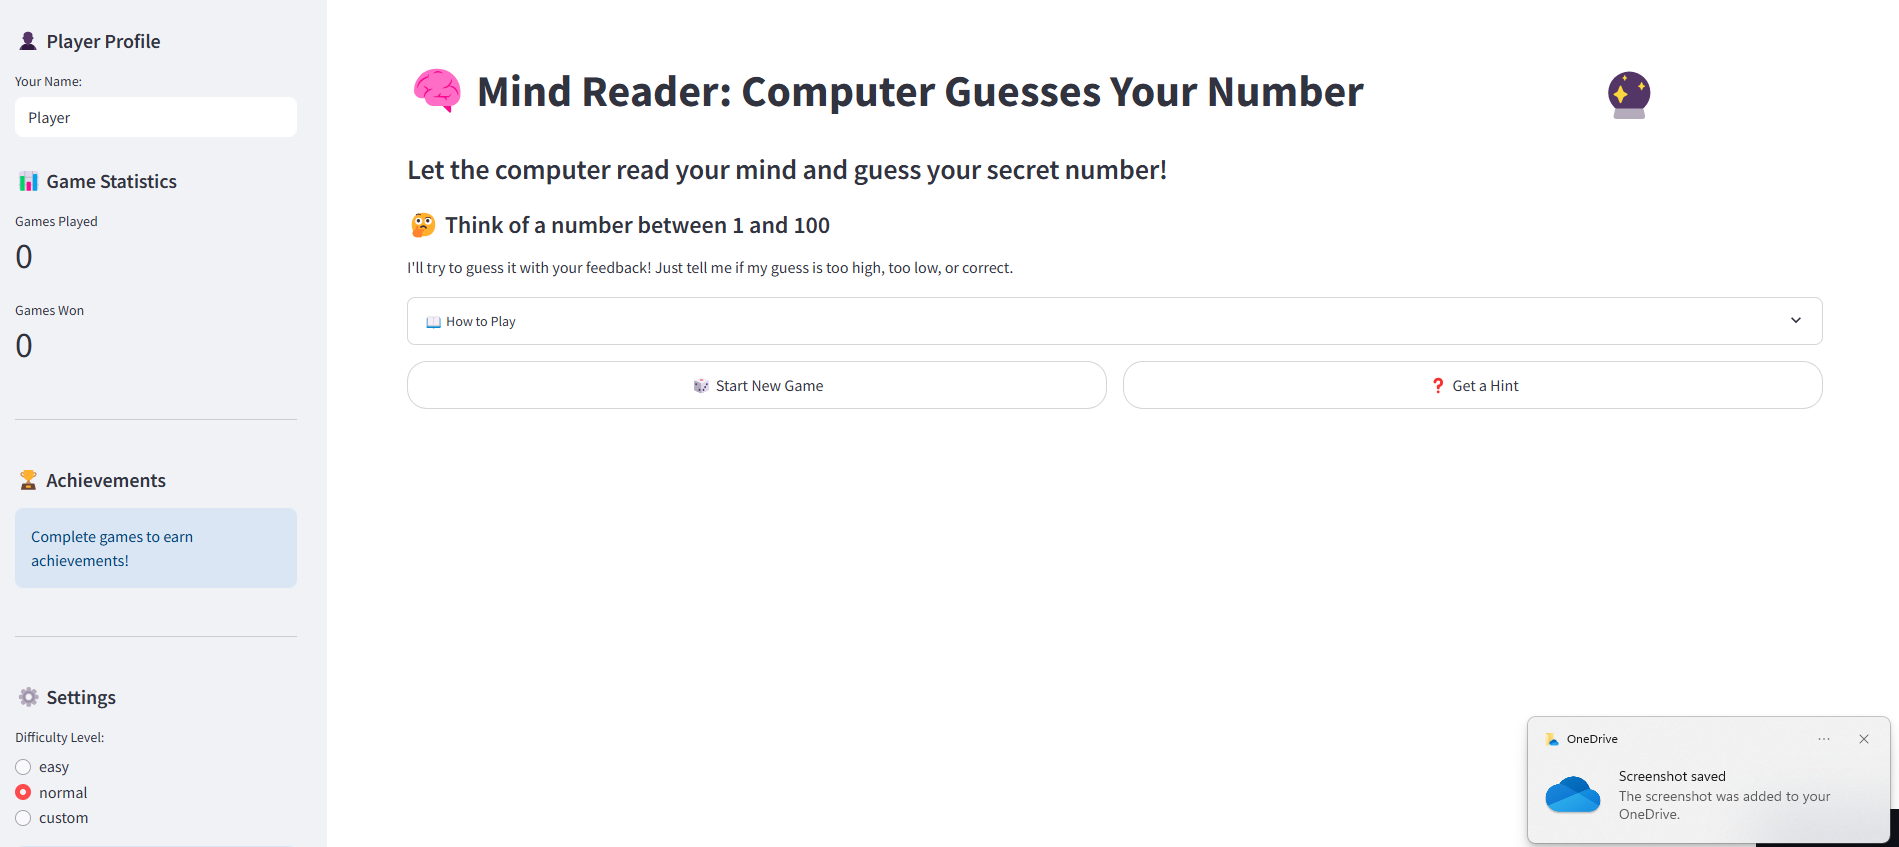
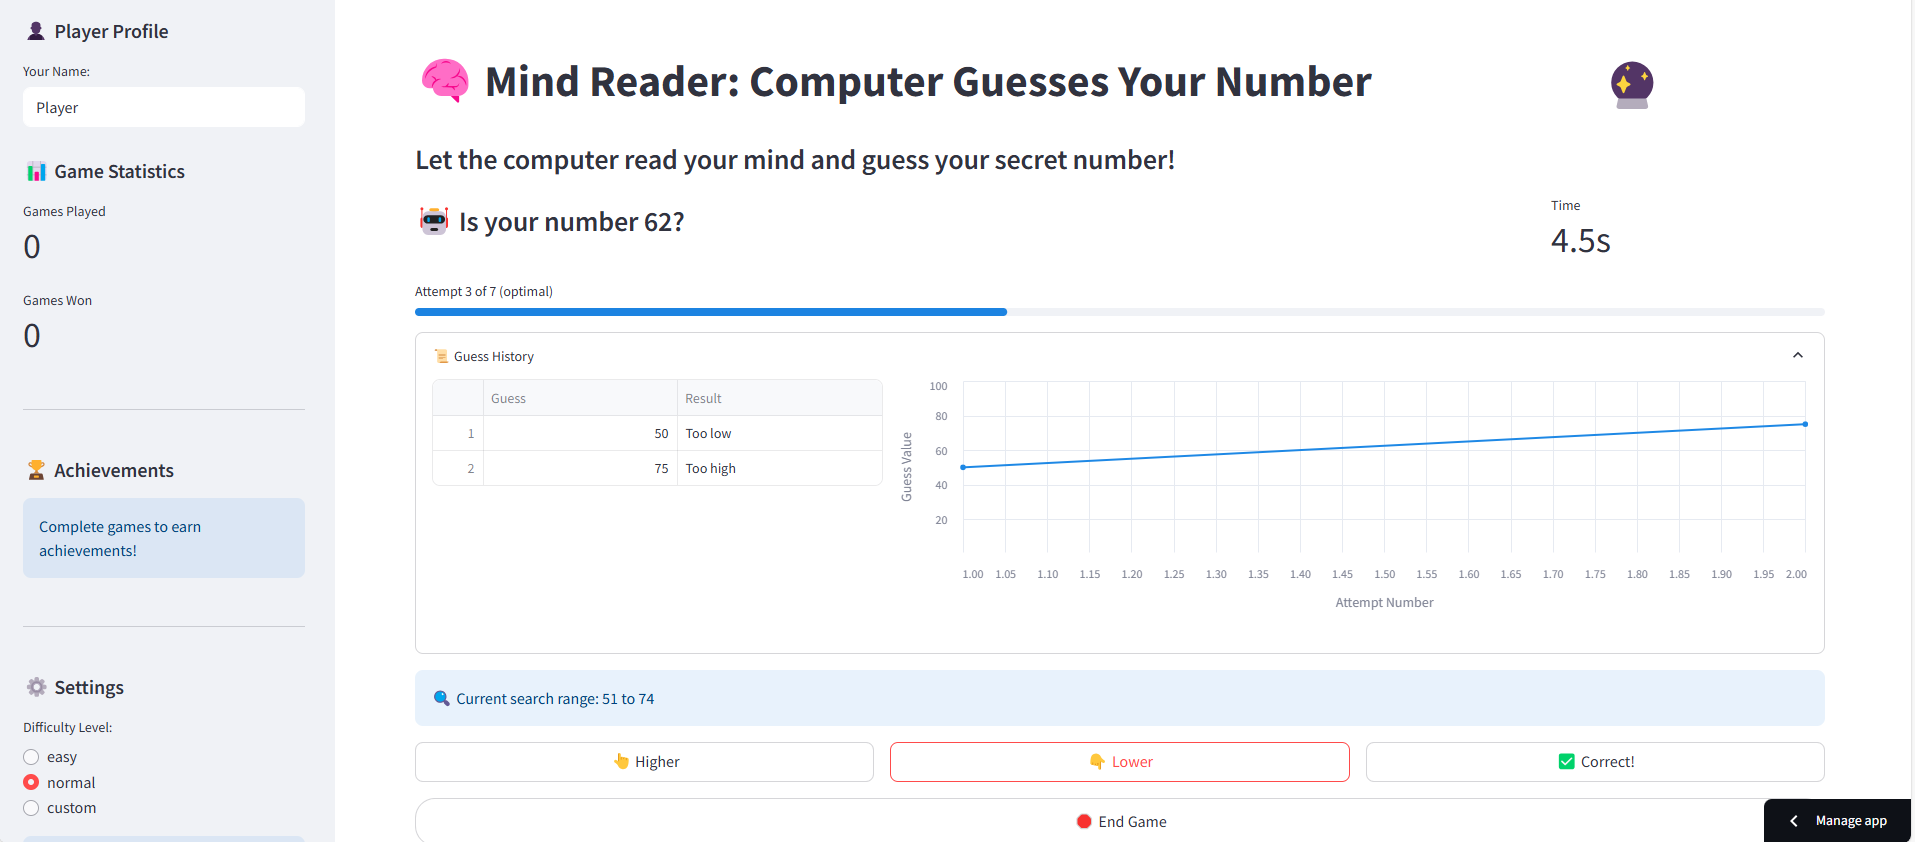
updated project added via upload

diff --git a/Guess the Number Game Python Project user/README.md b/Guess the Number Game Python Project user/README.md
@@ -7,12 +7,12 @@
 
 A captivating interactive game where the computer reads your mind and guesses your secret number! Built with Streamlit and enhanced with beautiful visualizations.
 
-![Game Screenshot](https://raw.githubusercontent.com/streamlit/streamlit/develop/examples/streamlit_app_screenshot.png)
+![Game Screenshot](./Screenshot.png)
 
 ## 🎮 Play Online
 
 Try the game online at:
-[Mind Reader Game](https://asadullah48-mind-reader.streamlit.app/)
+[Mind Reader Game](https://mind-reader-game.streamlit.app/)
 
 ## ✨ Features
 
